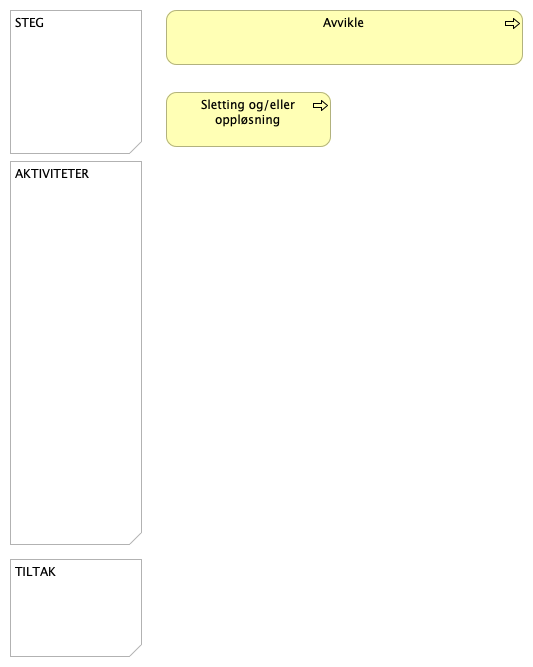
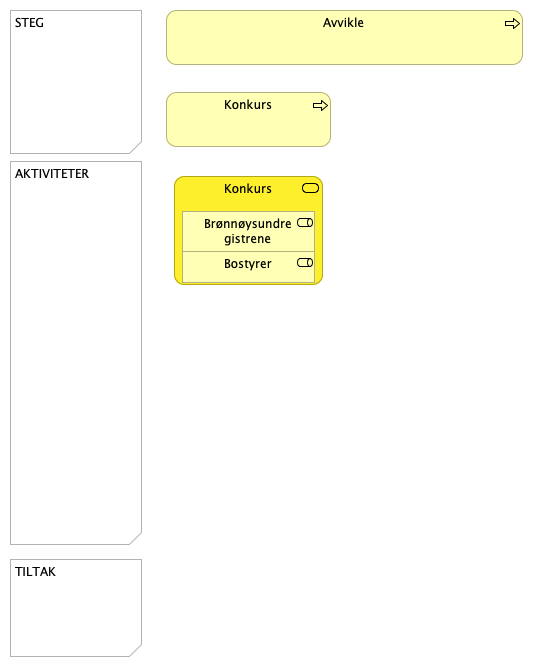
starte og drive - tilbakemeldinger fra Narvik

Changed region(s): [[0.3002, 0.2399, 0.6304, 0.4498], [0.3602, 0.1499, 0.5403, 0.2099]]

diff --git a/docs/id-0322705d/views/2f9478b1-2b88-48b5-8778-657abbc0cef9.html b/docs/id-0322705d/views/2f9478b1-2b88-48b5-8778-657abbc0cef9.html
@@ -28,11 +28,7 @@
 			<img class="diagram" src="../images/2f9478b1-2b88-48b5-8778-657abbc0cef9.png" alt="D - Avvikling Steg 03 sletting og/eller oppløsning" usemap="#2f9478b1-2b88-48b5-8778-657abbc0cef9map">
 			<map name="2f9478b1-2b88-48b5-8778-657abbc0cef9map">
 						<area shape="rect" coords="166,10,523,65" href="../elements/id-5c34a84a-d2c7-4e33-b891-8c106043f2ea.html"  target="element">
-								<area shape="rect" coords="182,211,315,252" href="../elements/id-85e0d52e-1714-402c-9d18-fdf28509f205.html"  target="element">
-								<area shape="rect" coords="182,251,315,283" href="../elements/57c477cf-f8c9-4f90-b2d5-0ed15e0a1c1e.html"  target="element">
-
-						<area shape="rect" coords="174,176,323,285" href="../elements/id-5e1a9e9c-8bb4-4c5b-8550-bcd20b0bdbab.html"  target="element">
-						<area shape="rect" coords="166,92,331,147" href="../elements/id-ff93e6bf-4703-46c2-b198-112399320693.html"  target="element">
+						<area shape="rect" coords="166,99,331,154" href="../elements/aa3198f3-cc67-4a3f-9325-cb6e9142eb17.html"  target="element">
 
 			</map>
 			<div role="tabpanel">
@@ -75,11 +71,7 @@
 											<!-- DEBUG: Skipping element from class com.archimatetool.model.impl.DiagramModelNote -->
 											<!-- DEBUG: Skipping element from class com.archimatetool.model.impl.DiagramModelNote -->
 											<tr><td> <a href="../elements/id-5c34a84a-d2c7-4e33-b891-8c106043f2ea.html" target="element"> Avvikle </a> </td><td class="i18n-elementtype-BusinessProcess"></td></tr>
-											<tr><td> <a href="../elements/id-5e1a9e9c-8bb4-4c5b-8550-bcd20b0bdbab.html" target="element"> Konkurs </a> </td><td class="i18n-elementtype-BusinessService"></td></tr>
-													<tr><td> <a href="../elements/id-85e0d52e-1714-402c-9d18-fdf28509f205.html" target="element"> Br&#248;nn&#248;ysundregistrene </a> </td><td class="i18n-elementtype-BusinessRole"></td></tr>
-													<tr><td> <a href="../elements/57c477cf-f8c9-4f90-b2d5-0ed15e0a1c1e.html" target="element"> Bostyrer </a> </td><td class="i18n-elementtype-BusinessRole"></td></tr>
-											
-											<tr><td> <a href="../elements/id-ff93e6bf-4703-46c2-b198-112399320693.html" target="element"> Konkurs </a> </td><td class="i18n-elementtype-BusinessProcess"></td></tr>
+											<tr><td> <a href="../elements/aa3198f3-cc67-4a3f-9325-cb6e9142eb17.html" target="element"> Sletting og/eller oppl&#248;sning </a> </td><td class="i18n-elementtype-BusinessProcess"></td></tr>
 
 								</tbody>
 							</table>
@@ -98,21 +90,6 @@
 											<!-- DEBUG: Skipping element from class com.archimatetool.model.impl.DiagramModelNote -->
 											<!-- DEBUG: Skipping element from class com.archimatetool.model.impl.DiagramModelNote -->
 											<!-- DEBUG: Skipping element from class com.archimatetool.model.impl.DiagramModelNote -->
-																			<tr>
-																				<td> <a href="../elements/03e459f9-1b81-424e-bfe7-d6d4feb6ff27.html" target="element">  </a> </td>
-																				<td> <a href="../elements/03e459f9-1b81-424e-bfe7-d6d4feb6ff27.html" target="element" class="i18n-elementtype-AssignmentRelationship"></a> </td>
-																				<td> <a href="../elements/id-85e0d52e-1714-402c-9d18-fdf28509f205.html" target="element"> Br&#248;nn&#248;ysundregistrene </a> </td>
-																				<td> <a href="../elements/id-5e1a9e9c-8bb4-4c5b-8550-bcd20b0bdbab.html" target="element"> Konkurs </a> </td>
-																			</tr>
-
-																			<tr>
-																				<td> <a href="../elements/1fa4c7e7-6203-42af-8a54-069e81fd9017.html" target="element">  </a> </td>
-																				<td> <a href="../elements/1fa4c7e7-6203-42af-8a54-069e81fd9017.html" target="element" class="i18n-elementtype-AssignmentRelationship"></a> </td>
-																				<td> <a href="../elements/57c477cf-f8c9-4f90-b2d5-0ed15e0a1c1e.html" target="element"> Bostyrer </a> </td>
-																				<td> <a href="../elements/id-5e1a9e9c-8bb4-4c5b-8550-bcd20b0bdbab.html" target="element"> Konkurs </a> </td>
-																			</tr>
-
-											
 
 								</tbody>
 							</table>

diff --git a/docs/id-0322705d/views/cb1c8f1f-4e22-4224-abb9-b0e56a0f3c78.html b/docs/id-0322705d/views/cb1c8f1f-4e22-4224-abb9-b0e56a0f3c78.html
@@ -28,7 +28,11 @@
 			<img class="diagram" src="../images/cb1c8f1f-4e22-4224-abb9-b0e56a0f3c78.png" alt="D - Avvikling Steg 02 konkurs" usemap="#cb1c8f1f-4e22-4224-abb9-b0e56a0f3c78map">
 			<map name="cb1c8f1f-4e22-4224-abb9-b0e56a0f3c78map">
 						<area shape="rect" coords="166,10,523,65" href="../elements/id-5c34a84a-d2c7-4e33-b891-8c106043f2ea.html"  target="element">
-						<area shape="rect" coords="166,92,331,147" href="../elements/aa3198f3-cc67-4a3f-9325-cb6e9142eb17.html"  target="element">
+								<area shape="rect" coords="182,211,315,252" href="../elements/id-85e0d52e-1714-402c-9d18-fdf28509f205.html"  target="element">
+								<area shape="rect" coords="182,251,315,283" href="../elements/57c477cf-f8c9-4f90-b2d5-0ed15e0a1c1e.html"  target="element">
+
+						<area shape="rect" coords="174,176,323,285" href="../elements/id-5e1a9e9c-8bb4-4c5b-8550-bcd20b0bdbab.html"  target="element">
+						<area shape="rect" coords="166,92,331,147" href="../elements/id-ff93e6bf-4703-46c2-b198-112399320693.html"  target="element">
 
 			</map>
 			<div role="tabpanel">
@@ -71,7 +75,11 @@
 											<!-- DEBUG: Skipping element from class com.archimatetool.model.impl.DiagramModelNote -->
 											<!-- DEBUG: Skipping element from class com.archimatetool.model.impl.DiagramModelNote -->
 											<tr><td> <a href="../elements/id-5c34a84a-d2c7-4e33-b891-8c106043f2ea.html" target="element"> Avvikle </a> </td><td class="i18n-elementtype-BusinessProcess"></td></tr>
-											<tr><td> <a href="../elements/aa3198f3-cc67-4a3f-9325-cb6e9142eb17.html" target="element"> Sletting og/eller oppl&#248;sning </a> </td><td class="i18n-elementtype-BusinessProcess"></td></tr>
+											<tr><td> <a href="../elements/id-5e1a9e9c-8bb4-4c5b-8550-bcd20b0bdbab.html" target="element"> Konkurs </a> </td><td class="i18n-elementtype-BusinessService"></td></tr>
+													<tr><td> <a href="../elements/id-85e0d52e-1714-402c-9d18-fdf28509f205.html" target="element"> Br&#248;nn&#248;ysundregistrene </a> </td><td class="i18n-elementtype-BusinessRole"></td></tr>
+													<tr><td> <a href="../elements/57c477cf-f8c9-4f90-b2d5-0ed15e0a1c1e.html" target="element"> Bostyrer </a> </td><td class="i18n-elementtype-BusinessRole"></td></tr>
+											
+											<tr><td> <a href="../elements/id-ff93e6bf-4703-46c2-b198-112399320693.html" target="element"> Konkurs </a> </td><td class="i18n-elementtype-BusinessProcess"></td></tr>
 
 								</tbody>
 							</table>
@@ -90,6 +98,21 @@
 											<!-- DEBUG: Skipping element from class com.archimatetool.model.impl.DiagramModelNote -->
 											<!-- DEBUG: Skipping element from class com.archimatetool.model.impl.DiagramModelNote -->
 											<!-- DEBUG: Skipping element from class com.archimatetool.model.impl.DiagramModelNote -->
+																			<tr>
+																				<td> <a href="../elements/03e459f9-1b81-424e-bfe7-d6d4feb6ff27.html" target="element">  </a> </td>
+																				<td> <a href="../elements/03e459f9-1b81-424e-bfe7-d6d4feb6ff27.html" target="element" class="i18n-elementtype-AssignmentRelationship"></a> </td>
+																				<td> <a href="../elements/id-85e0d52e-1714-402c-9d18-fdf28509f205.html" target="element"> Br&#248;nn&#248;ysundregistrene </a> </td>
+																				<td> <a href="../elements/id-5e1a9e9c-8bb4-4c5b-8550-bcd20b0bdbab.html" target="element"> Konkurs </a> </td>
+																			</tr>
+
+																			<tr>
+																				<td> <a href="../elements/1fa4c7e7-6203-42af-8a54-069e81fd9017.html" target="element">  </a> </td>
+																				<td> <a href="../elements/1fa4c7e7-6203-42af-8a54-069e81fd9017.html" target="element" class="i18n-elementtype-AssignmentRelationship"></a> </td>
+																				<td> <a href="../elements/57c477cf-f8c9-4f90-b2d5-0ed15e0a1c1e.html" target="element"> Bostyrer </a> </td>
+																				<td> <a href="../elements/id-5e1a9e9c-8bb4-4c5b-8550-bcd20b0bdbab.html" target="element"> Konkurs </a> </td>
+																			</tr>
+
+											
 
 								</tbody>
 							</table>
